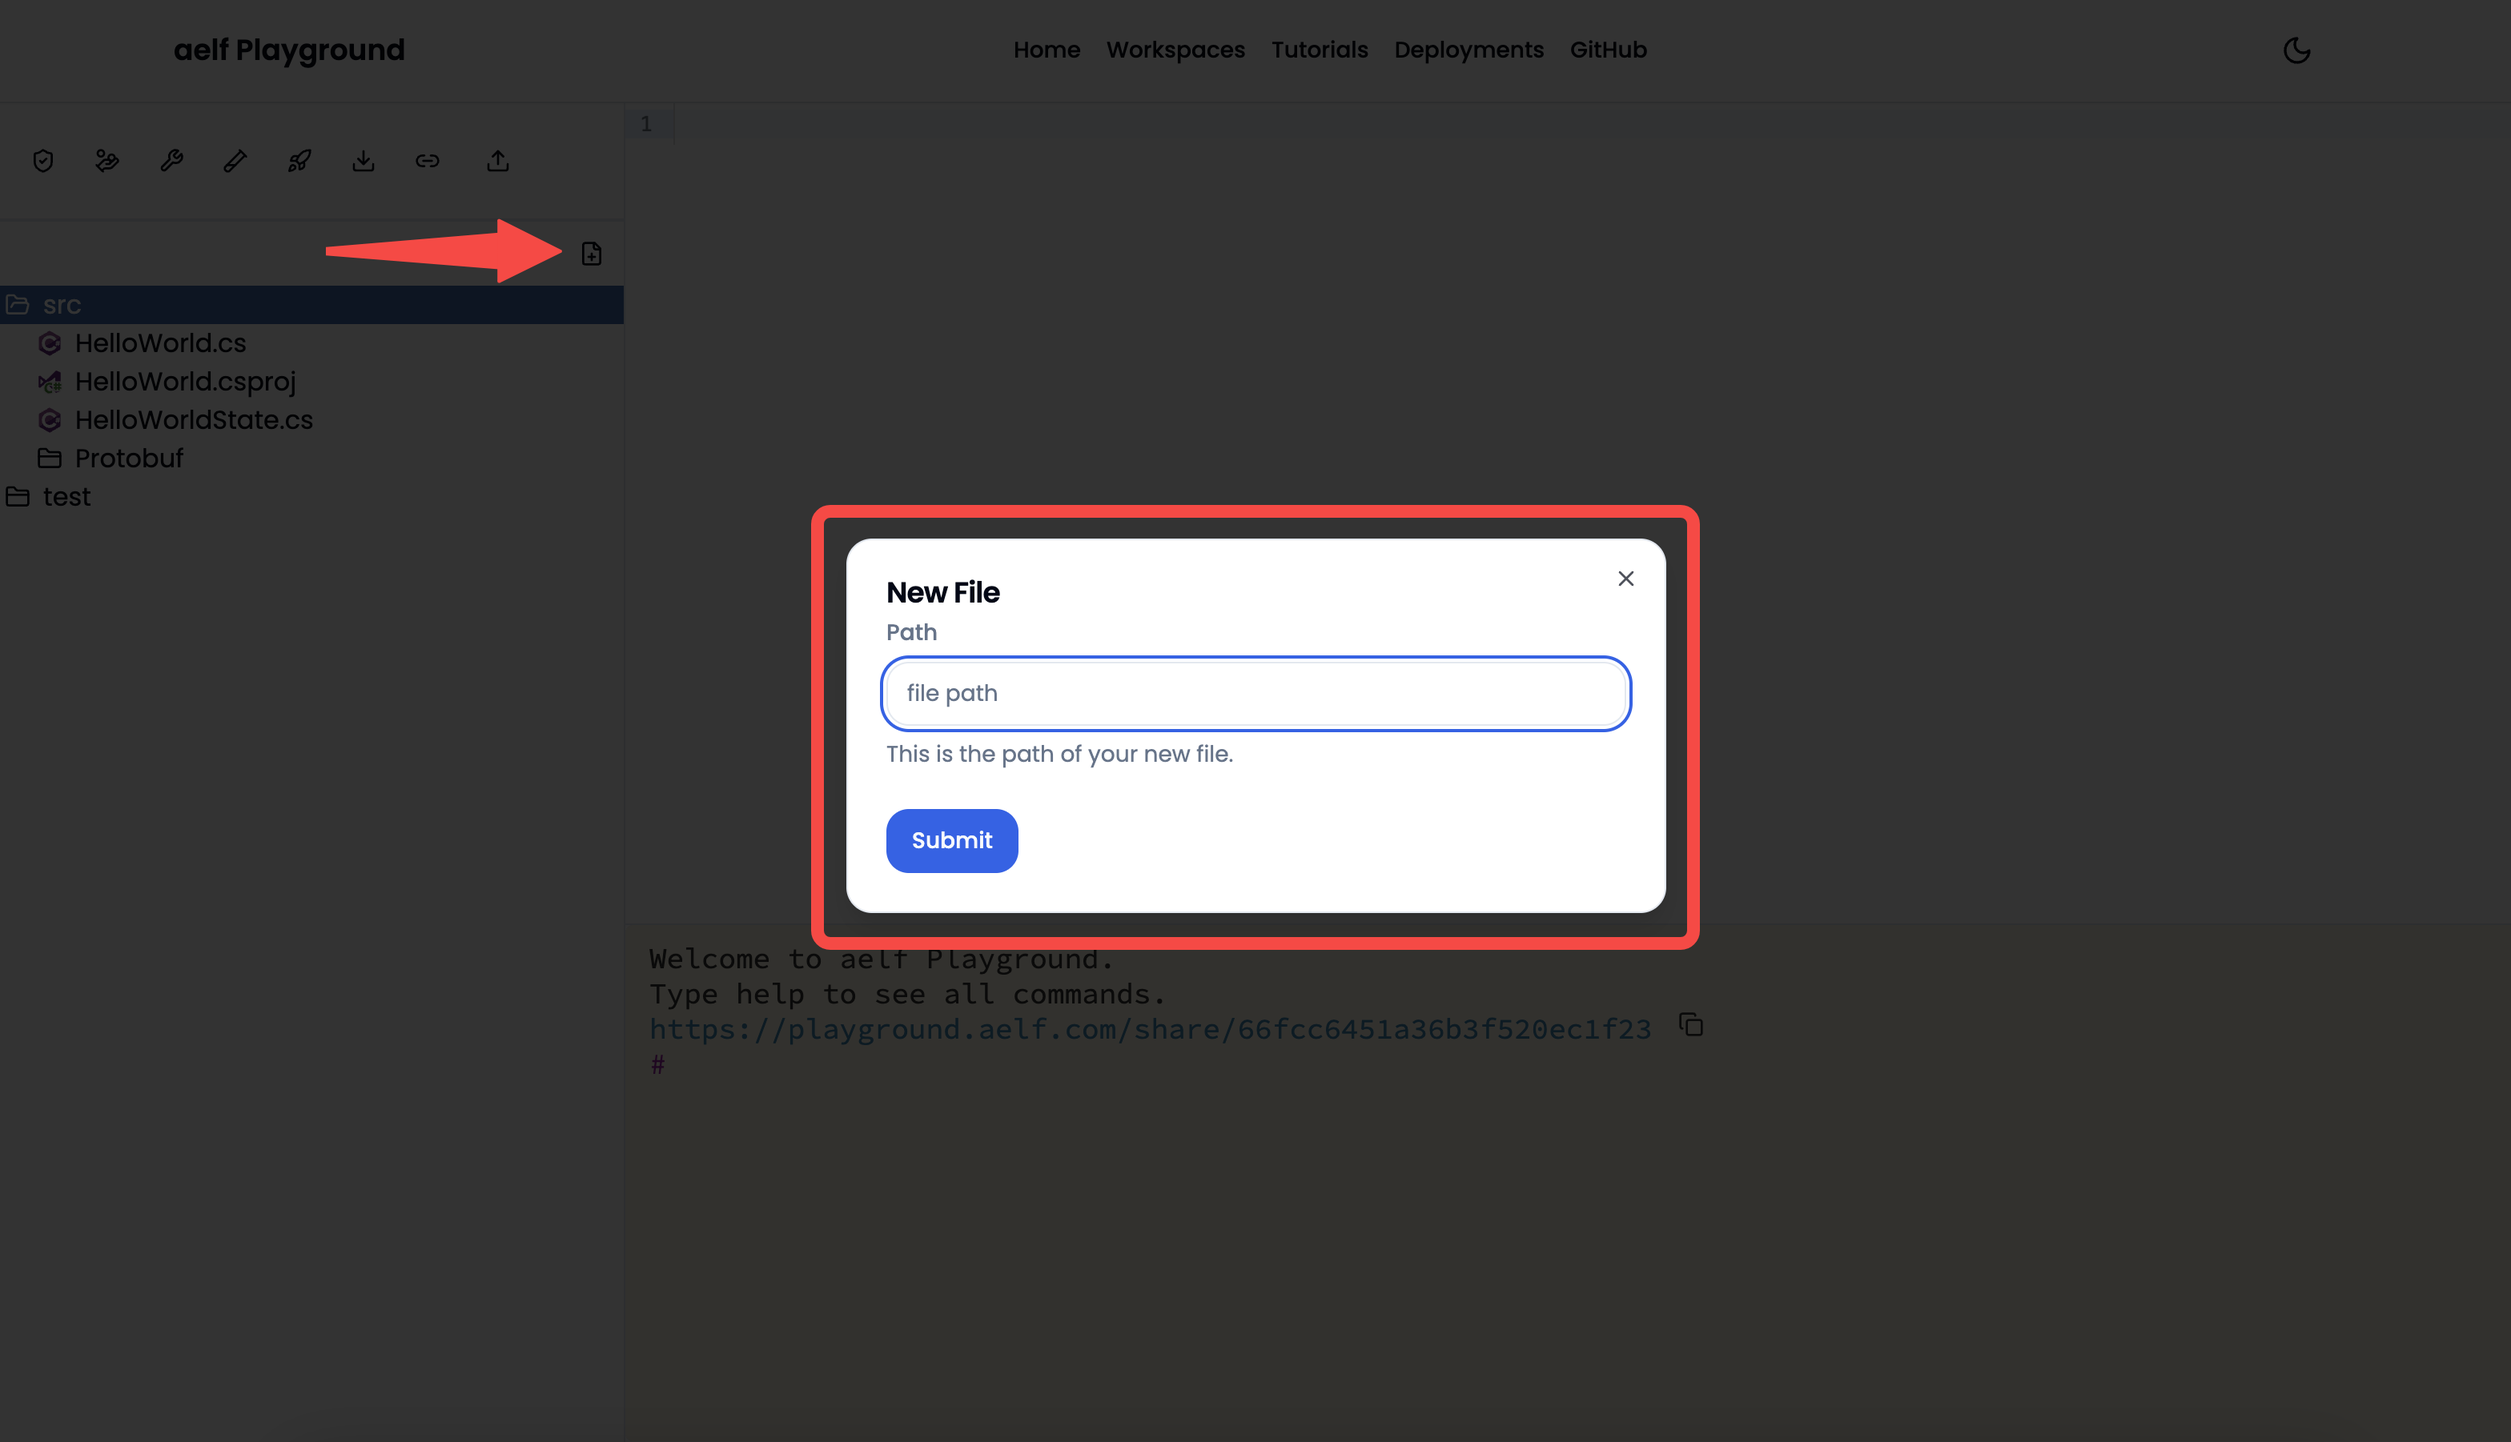
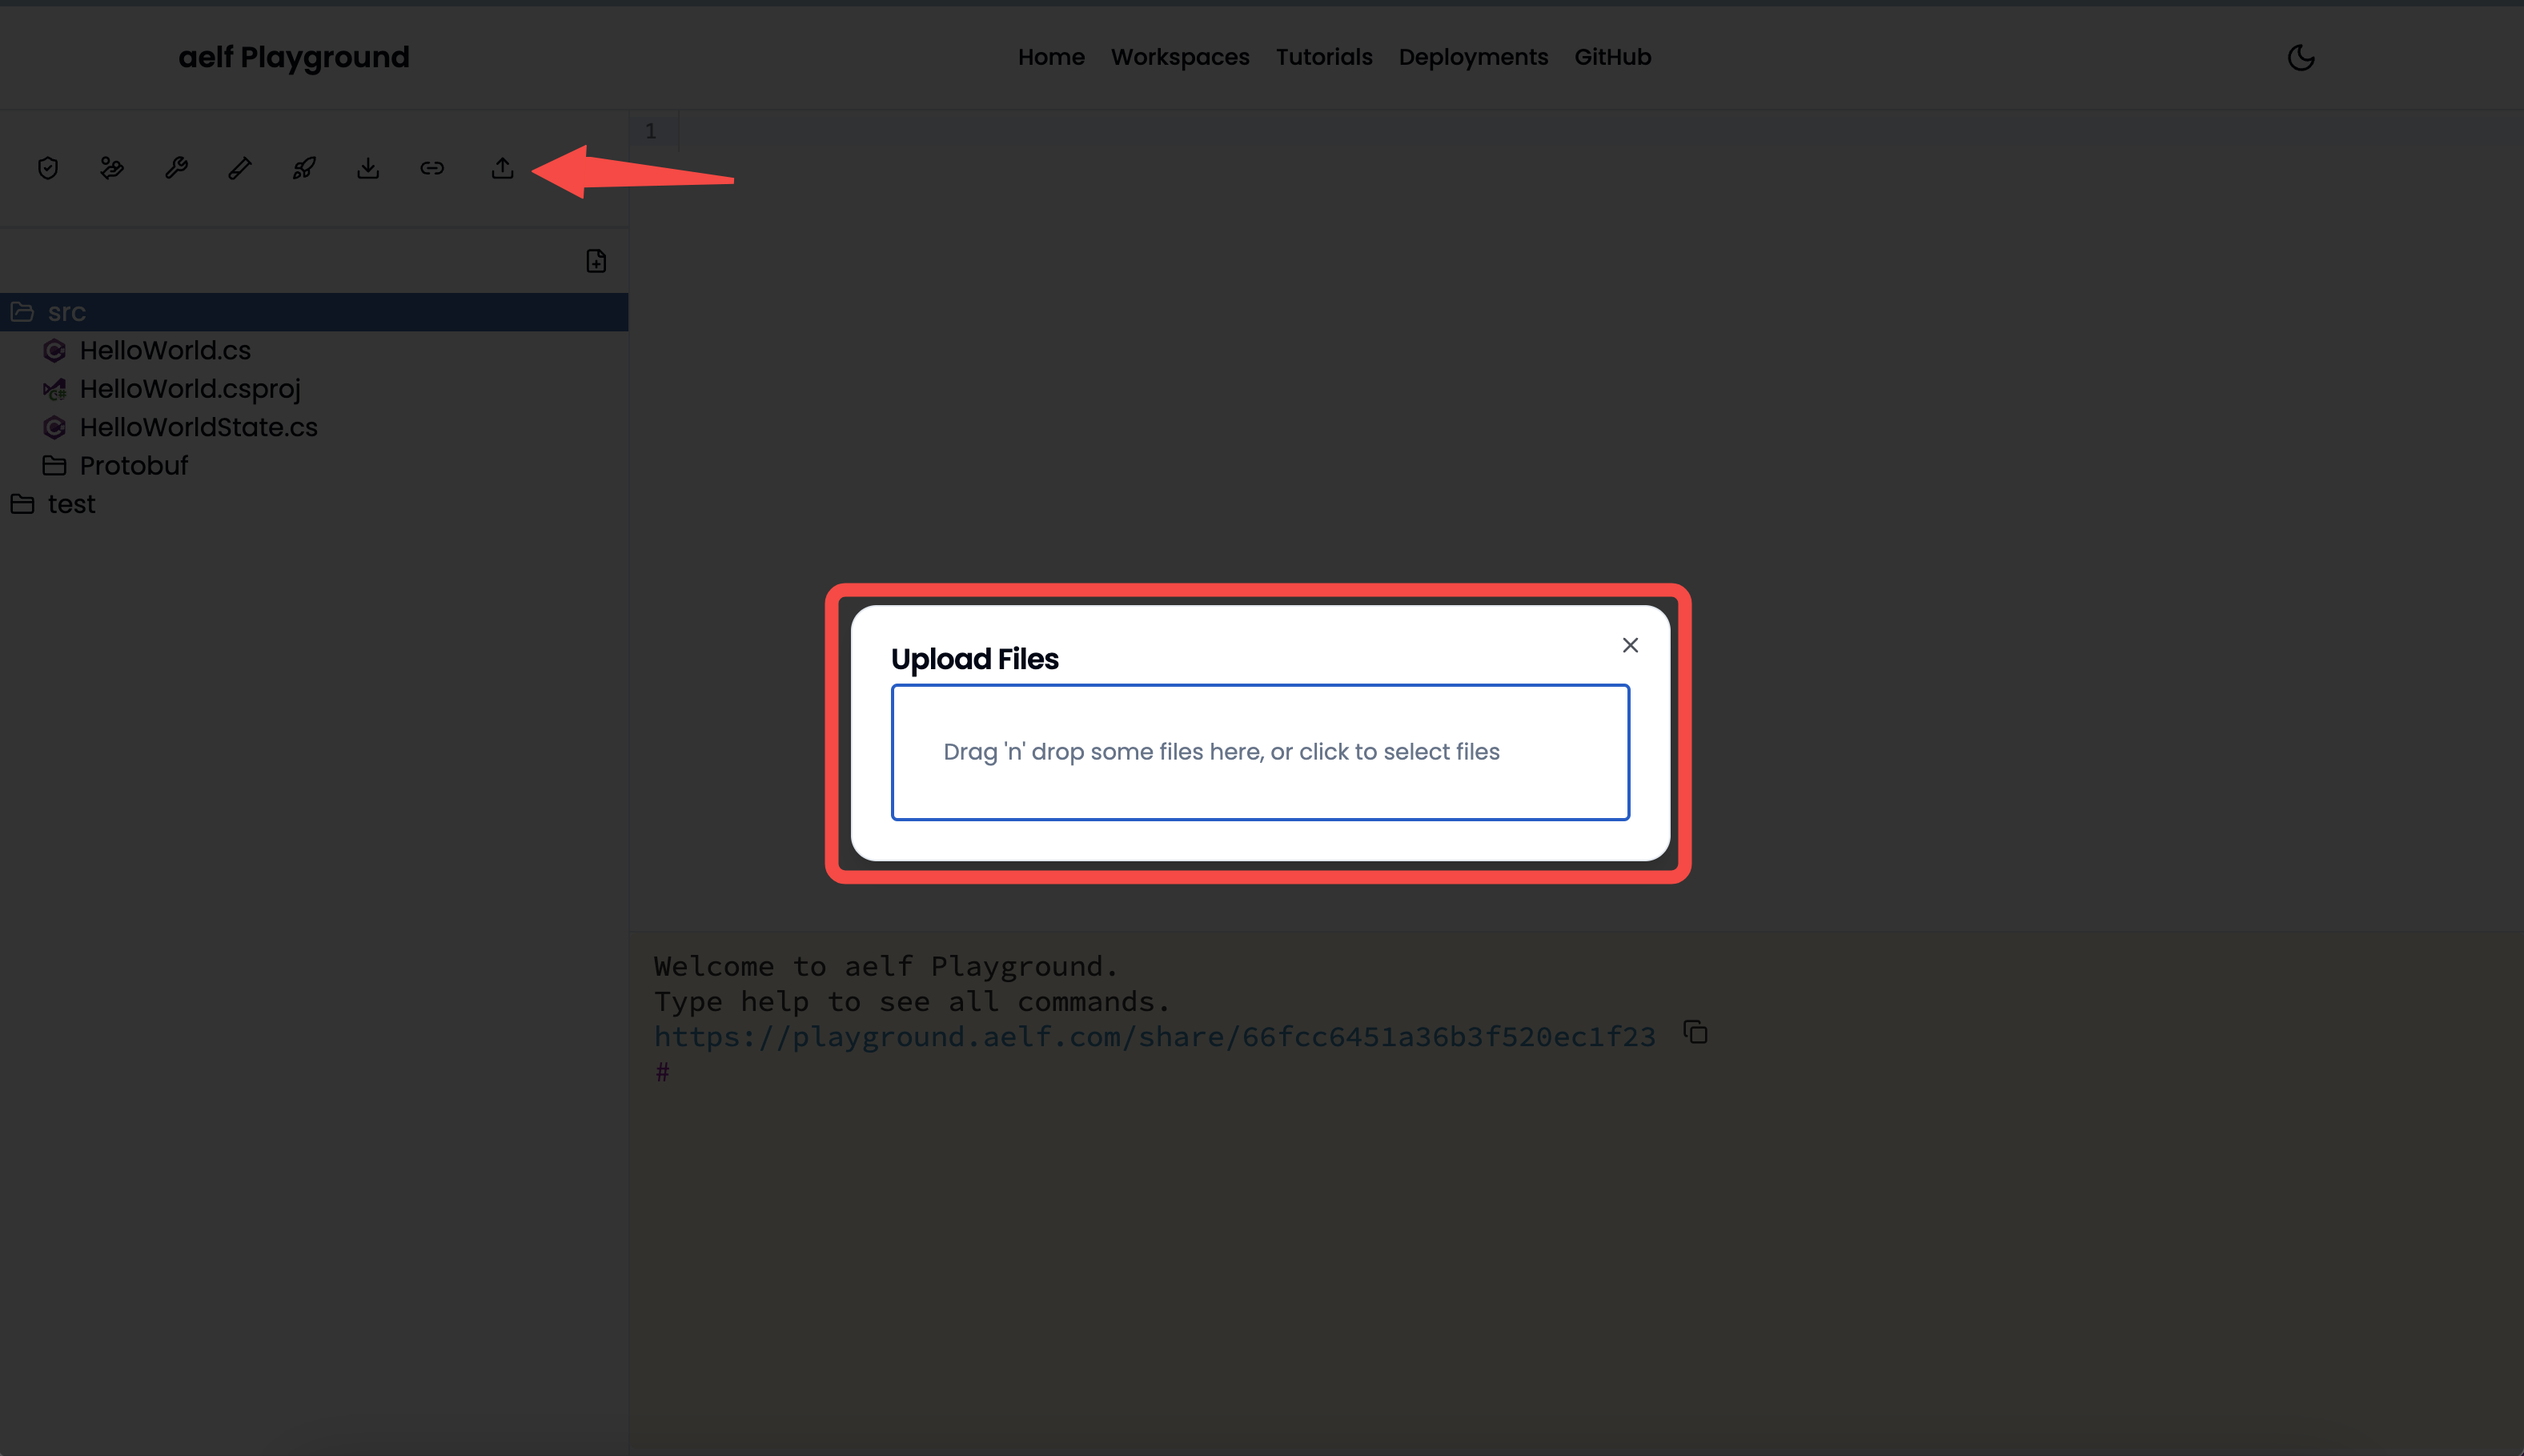
feat: Added tutorials, deployment and command line options

diff --git a/docs/tools/aelf-playground/index.md b/docs/tools/aelf-playground/index.md
@@ -64,42 +64,63 @@ Now as the workspace setup is done and project is setup inside aelf's playground
 - src/`ContractName`State.cs
 
 Once all the changes are done in the above files and all other required files (whereever nacessary). Then below operations can be performed on the selected workspace project: 
-1. AI Audit: Complete the AI audit of the writtwn smart contract. Result similar to below image will be visible once the AI audit completes.
+1. **AI Audit**: Complete the AI audit of the writtwn smart contract. Result similar to below image will be visible once the AI audit completes. The interpretation of the AI audit results will be shown when you hover over the smart contract code once the audit finishes.
   
   ![AI-Audit](/img/playground-9.png)
 
-2. Save Gas Fee: Optimise the smart contract to save gas fee.  It will suggest to make changes to the smart contract if the smart contract is not optimised. If the smart contract is already optimed then result like below will appear.
+2. **Save Gas Fee**: Optimise the smart contract to save gas fee.  It will suggest to make changes to the smart contract if the smart contract is not optimised. If the smart contract is already optimed then result like below will appear.
 
   ![Save-Gas-Fee](/img/playground-10.png)
 
-3. Build: Build the smart contract code. It will show `building` status when the user clicks the `Build` button and will output below result including whether build was successful or failed once the build process ends.
+3. **Build**: Build the smart contract code. It will show `building` status when the user clicks the `Build` button and will output below result including whether build was successful or failed once the build process ends.
 
   ![Build](/img/playground-11.png)
   
-4. Test: Test the smart contract code. It will show `Running Tests` status when the user clicks the `Test` button and will output below result including how many tests have passed and failed once the test process ends.
+4. **Test**: Test the smart contract code. It will show `Running Tests` status when the user clicks the `Test` button and will output below result including how many tests have passed and failed once the test process ends.
 
   ![Test](/img/playground-12.png)
   
-5. Deploy: Deploy the smart contract code on the aelf blockchain. It will show `Deploying` status when the user clicks the `Deploy` button and will output below result including `transactionId`, `proposal status` and `contract address` once the build process ends. You can verify the contract address by visiting [aelf testnet explorer](https://testnet.aelfscan.io/tDVW).
+5. **Deploy**: Deploy the smart contract code on the aelf blockchain. It will show `Deploying` status when the user clicks the `Deploy` button and will output below result including `transactionId`, `proposal status` and `contract address` once the build process ends. You can verify the contract address by visiting [aelf testnet explorer](https://testnet.aelfscan.io/tDVW).
 
   ![Deploy](/img/playground-13.png)
   
-6. Export: Export the project in a local directory. It will open an alert to save the workspace in the local directory. Users can rename the local directory.
+6. **Export**: Export the project in a local directory. It will open an alert to save the workspace in the local directory. Users can rename the local directory.
 
   ![Export](/img/playground-14.png)
   
-7. Share: Share the project with a sharable link. It will show `Generating share link` status when the user clicks the `Share` button and will output below result including the sharable link.
+7. **Share**: Share the project with a sharable link. It will show `Generating share link` status when the user clicks the `Share` button and will output below result including the sharable link.
 
   ![Share](/img/playground-15.png)
-  
-8. Upload Files: Upload more files to the project when necessary. It will show a `drag and drop files` section to drop files from the local directory.
+
+8. **Command Line Options**: Command line additionally provides options to check txID and clear terminal including above options. Use the help command to see all the options inside terminal. `check txID` helps in checking the transaction details.
 
   ![Upload Files](/img/playground-16.png)
   
-9. Add a New File: Manually add a new file in the playground project structure. It will allow users to add a new file in the workspace project structure add smart contract code, new proto files, etc.
+9. **Upload Files**: Upload more files to the project when necessary. It will show a `drag and drop files` section to drop files from the local directory.
 
-  ![Add a New File](/img/playground-17.png)
+  ![Upload Files](/img/playground-17.png)
   
+10. **Add a New File**: Manually add a new file in the playground project structure. It will allow users to add a new file in the workspace project structure add smart contract code, new proto files, etc.
+
+  ![Add a New File](/img/playground-18.png)
+
+11. **Rename & Delete File**: `Renames` & `Deletes` the chosen file or folders in the project directory structure.
+
+  ![Add a New File](/img/playground-19.png)
+
+12. **Tutorials**: Some pre-compiled tutorials are curated under `Tutorials` section of aelf-playground. It provides an option to filter the tutorials based on the difficulty level (`Beginner`, `Intermediate` & `Advanced`) and smart contracts languages (C# & Solidity).
+
+  ![Add a New File](/img/playground-20.png)
+
+
+13. **Deployments**: `Deployments` section provides a list of all deployed tutorials along with the wallet address used to deploy smart contracts on the aelf blockchain. You can click on the wallet address to view wallet details on the aelf explorer.
+
+  ![Add a New File](/img/playground-21.png)
+
+14. **Themes**: Users can also choose to toggle between `dark` and `light` themes.
+
+  ![Add a New File](/img/playground-22.png)
+
 
 ### Conclusion
 The aelf Playground offers a seamless and accessible platform for developers to build, test, and deploy smart contracts without the need for any local setup. With built-in features like AI audit, gas fee optimization, and GitHub integration, it simplifies the entire smart contract development process. Whether you're writing new code or modifying existing templates, the aelf Playground provides all the essential tools in one place, making it an ideal sandbox for both beginners and experienced developers.
